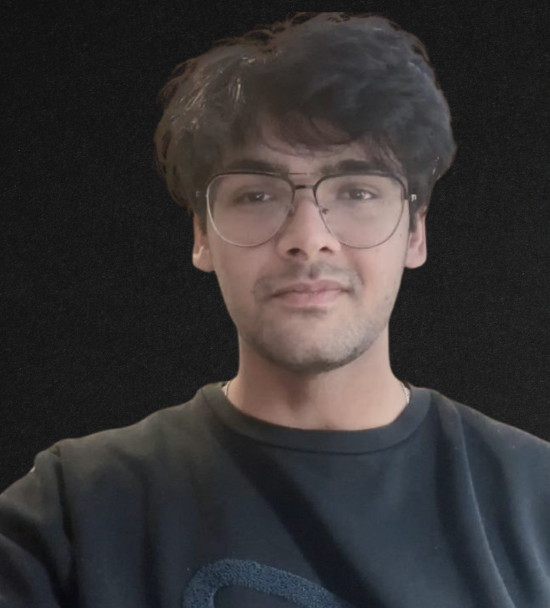
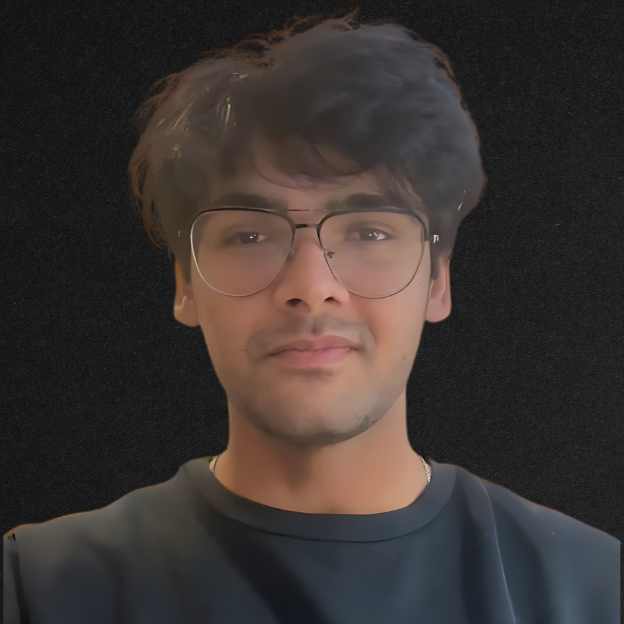
added Images and removed some

diff --git a/my-project/src/assets/components/About.jsx b/my-project/src/assets/components/About.jsx
@@ -1,5 +1,6 @@
 import React from 'react'
 import aboutImg from "../about.jpg"
+import aboutImg1 from "../about1.png"
 import { ABOUT_TEXT } from '../../constants'
 import { ABOUT_EDUCATION } from '../../constants'
 import { motion } from 'framer-motion'
@@ -18,7 +19,7 @@ const About = () => {
             transition={{duration:0.5}}
             className='w-full lg:w-1/2 lg:p-8'>
                 <div className= "flex items-center justify-center">
-                    <img className="rounded-2xl"src= {aboutImg} alt="About" />
+                    <img className=" mt-5 rounded-2xl"src= {aboutImg1} alt="About" />
                 </div>
             </motion.div>
             <motion.div

diff --git a/my-project/src/assets/components/Hero.jsx b/my-project/src/assets/components/Hero.jsx
@@ -2,6 +2,7 @@ import React from 'react'
 import { motion } from 'framer-motion'
 import { HERO_CONTENT } from "../../constants/index.js"
 import profilePic from "../kevinRushProfile.png"
+import profilePic1 from "../profile.png"
 
 const container = (delay) => ({
   hidden: { x:-100, opacity:0 },
@@ -38,7 +39,8 @@ return (<div className='border-b border-neutral-900 pb-4 lg:mb-35'>
        initial= {{x:100, opacity:0}}
        animate= {{x:0., opacity:1}}
        transition={{duration:1, delay:1.2}}
-       src={profilePic} alt="Profile pic" /></div>
+       src={profilePic1} alt="Profile pic" 
+       className='object-cover rounded-lg'/></div>
   </div>
 </div>)
 }

diff --git a/my-project/src/assets/components/NavBar.jsx b/my-project/src/assets/components/NavBar.jsx
@@ -19,7 +19,6 @@ const NavBar = () => {
         <FaInstagram />
       </a>
     </div>
-
   </nav>
 }
 
